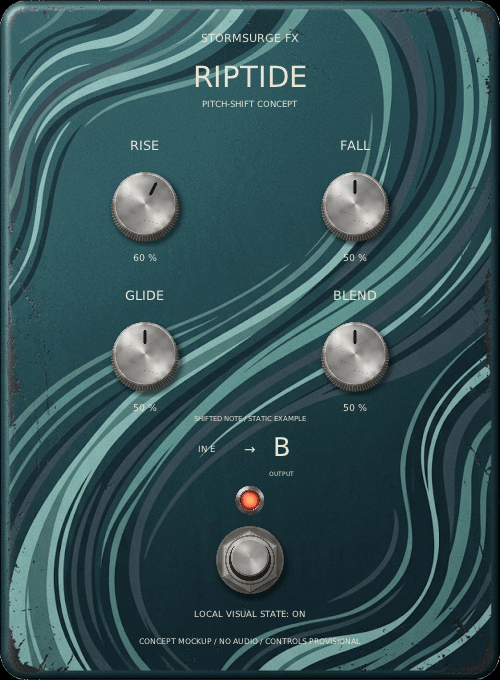
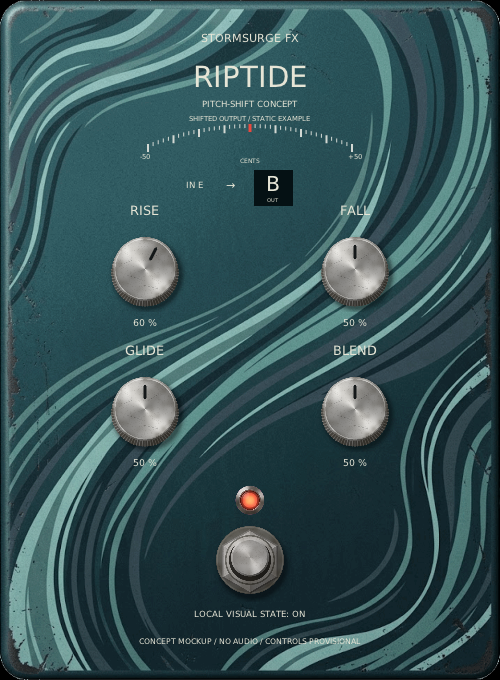
Move tuner-style readout to top of Riptide mockup

diff --git a/tests/FuturePedalMockup.cpp b/tests/FuturePedalMockup.cpp
@@ -23,7 +23,7 @@ namespace
 {
 constexpr float Width = 520, RiptideWidth = 500, Height = 680;
 constexpr std::array<float, 4> KnobX{155, 365, 155, 365};
-constexpr std::array<float, 4> KnobY{205, 205, 355, 355};
+constexpr std::array<float, 4> WhitecapKnobY{205, 205, 355, 355};
 enum class Pedal { Whitecap, Riptide };
 Pedal selectedPedal = Pedal::Whitecap;
 
@@ -67,11 +67,11 @@ class FuturePedalMockup final : public UI
         MouseEvent event;
         event.button = 1;
         event.press = true;
-        event.pos = windowPoint(KnobX[0], KnobY[0]);
+        event.pos = windowPoint(KnobX[0], knobY(0));
         if (!onMouse(event))
             return false;
         MotionEvent motion;
-        motion.pos = windowPoint(KnobX[0], KnobY[0] - 20);
+        motion.pos = windowPoint(KnobX[0], knobY(0) - 20);
         if (!onMotion(motion) || values[0] <= 0.5f)
             return false;
         event.press = false;
@@ -104,12 +104,12 @@ class FuturePedalMockup final : public UI
         caption(controlX(260), 77, pedal == Pedal::Whitecap ? "WHITECAP" : "RIPTIDE", 34);
         caption(controlX(260), 105,
                 pedal == Pedal::Whitecap ? "CHORUS / VIBRATO CONCEPT" : "PITCH-SHIFT CONCEPT", 10);
+        if (pedal == Pedal::Riptide)
+            drawPitchReadout();
         for (unsigned i = 0; i < values.size(); ++i)
             drawKnob(i);
         if (pedal == Pedal::Whitecap)
             drawModeToggle();
-        else
-            drawPitchReadout();
         drawImage(enabled ? ledOn : ledOff, controlX(245), 485, 30, 30);
         drawImage(footMaterial, controlX(218), 518, 84, 84);
         caption(controlX(260), 615, enabled ? "LOCAL VISUAL STATE: ON" : "LOCAL VISUAL STATE: OFF",
@@ -129,7 +129,7 @@ class FuturePedalMockup final : public UI
         dragging = -1;
         const auto point = pedalPoint(event.pos);
         for (unsigned i = 0; i < values.size(); ++i) {
-            if (distanceSquared(point, controlX(KnobX[i]), KnobY[i]) <= 42 * 42) {
+            if (distanceSquared(point, controlX(KnobX[i]), knobY(i)) <= 42 * 42) {
                 dragging = static_cast<int>(i);
                 lastY = point.getY();
                 return true;
@@ -166,7 +166,7 @@ class FuturePedalMockup final : public UI
     {
         const auto point = pedalPoint(event.pos);
         for (unsigned i = 0; i < values.size(); ++i) {
-            if (distanceSquared(point, controlX(KnobX[i]), KnobY[i]) <= 42 * 42) {
+            if (distanceSquared(point, controlX(KnobX[i]), knobY(i)) <= 42 * 42) {
                 const float step = event.mod & kModifierShift ? 0.002f : 0.02f;
                 values[i] = std::clamp(values[i] + static_cast<float>(event.delta.getY()) * step,
                                        0.0f, 1.0f);
@@ -181,6 +181,13 @@ class FuturePedalMockup final : public UI
     float canvasWidth() const { return widthFor(pedal); }
 
     float controlX(float x) const { return x + (canvasWidth() - Width) * 0.5f; }
+
+    float knobY(unsigned index) const
+    {
+        if (pedal == Pedal::Riptide)
+            return index < 2 ? 270.0f : 410.0f;
+        return WhitecapKnobY[index];
+    }
 
     float drawingScale() const
     {
@@ -241,7 +248,7 @@ class FuturePedalMockup final : public UI
         static constexpr const char *whitecapLabels[]{"RATE", "DEPTH", "MIX", "WIDTH"};
         static constexpr const char *riptideLabels[]{"RISE", "FALL", "GLIDE", "BLEND"};
         const auto &labels = pedal == Pedal::Whitecap ? whitecapLabels : riptideLabels;
-        const float x = controlX(KnobX[index]), y = KnobY[index];
+        const float x = controlX(KnobX[index]), y = knobY(index);
         caption(x, y - 59, labels[index], 15);
         drawImage(knobMaterial, x - 42, y - 42, 84, 84);
         const float angle = (-135 + values[index] * 270) * 3.14159265f / 180;
@@ -267,11 +274,34 @@ class FuturePedalMockup final : public UI
 
     void drawPitchReadout()
     {
-        caption(controlX(260), 419, "SHIFTED NOTE / STATIC EXAMPLE", 8);
-        caption(controlX(217), 450, "IN E", 10);
-        caption(controlX(260), 450, "→", 16);
-        caption(controlX(292), 448, "B", 30);
-        caption(controlX(292), 474, "OUTPUT", 7);
+        const float center = controlX(260);
+        caption(center, 119, "SHIFTED OUTPUT / STATIC EXAMPLE", 8);
+
+        for (int tick = -20; tick <= 20; ++tick) {
+            const float normalized = static_cast<float>(tick) / 20.0f;
+            const float x = center + normalized * 102.0f;
+            const float y = 124.0f + normalized * normalized * 20.0f;
+            const bool major = tick % 5 == 0;
+            const float length = major ? 8.0f : 4.0f;
+            beginPath();
+            moveTo(x, y);
+            lineTo(x, y + length);
+            strokeColor(tick == 0 ? Color(235, 72, 62) : Color(210, 216, 211));
+            strokeWidth(tick == 0 ? 3.0f : (major ? 2.0f : 1.0f));
+            stroke();
+        }
+        caption(center - 105, 157, "-50", 8);
+        caption(center + 105, 157, "+50", 8);
+        caption(center, 161, "CENTS", 7);
+
+        caption(center - 55, 186, "IN E", 10);
+        caption(center - 19, 186, "→", 13);
+        beginPath();
+        rect(center + 4, 170, 39, 36);
+        fillColor(Color(5, 17, 20));
+        fill();
+        caption(center + 23, 184, "B", 24);
+        caption(center + 23, 201, "OUT", 6);
     }
 
     const Pedal pedal;
